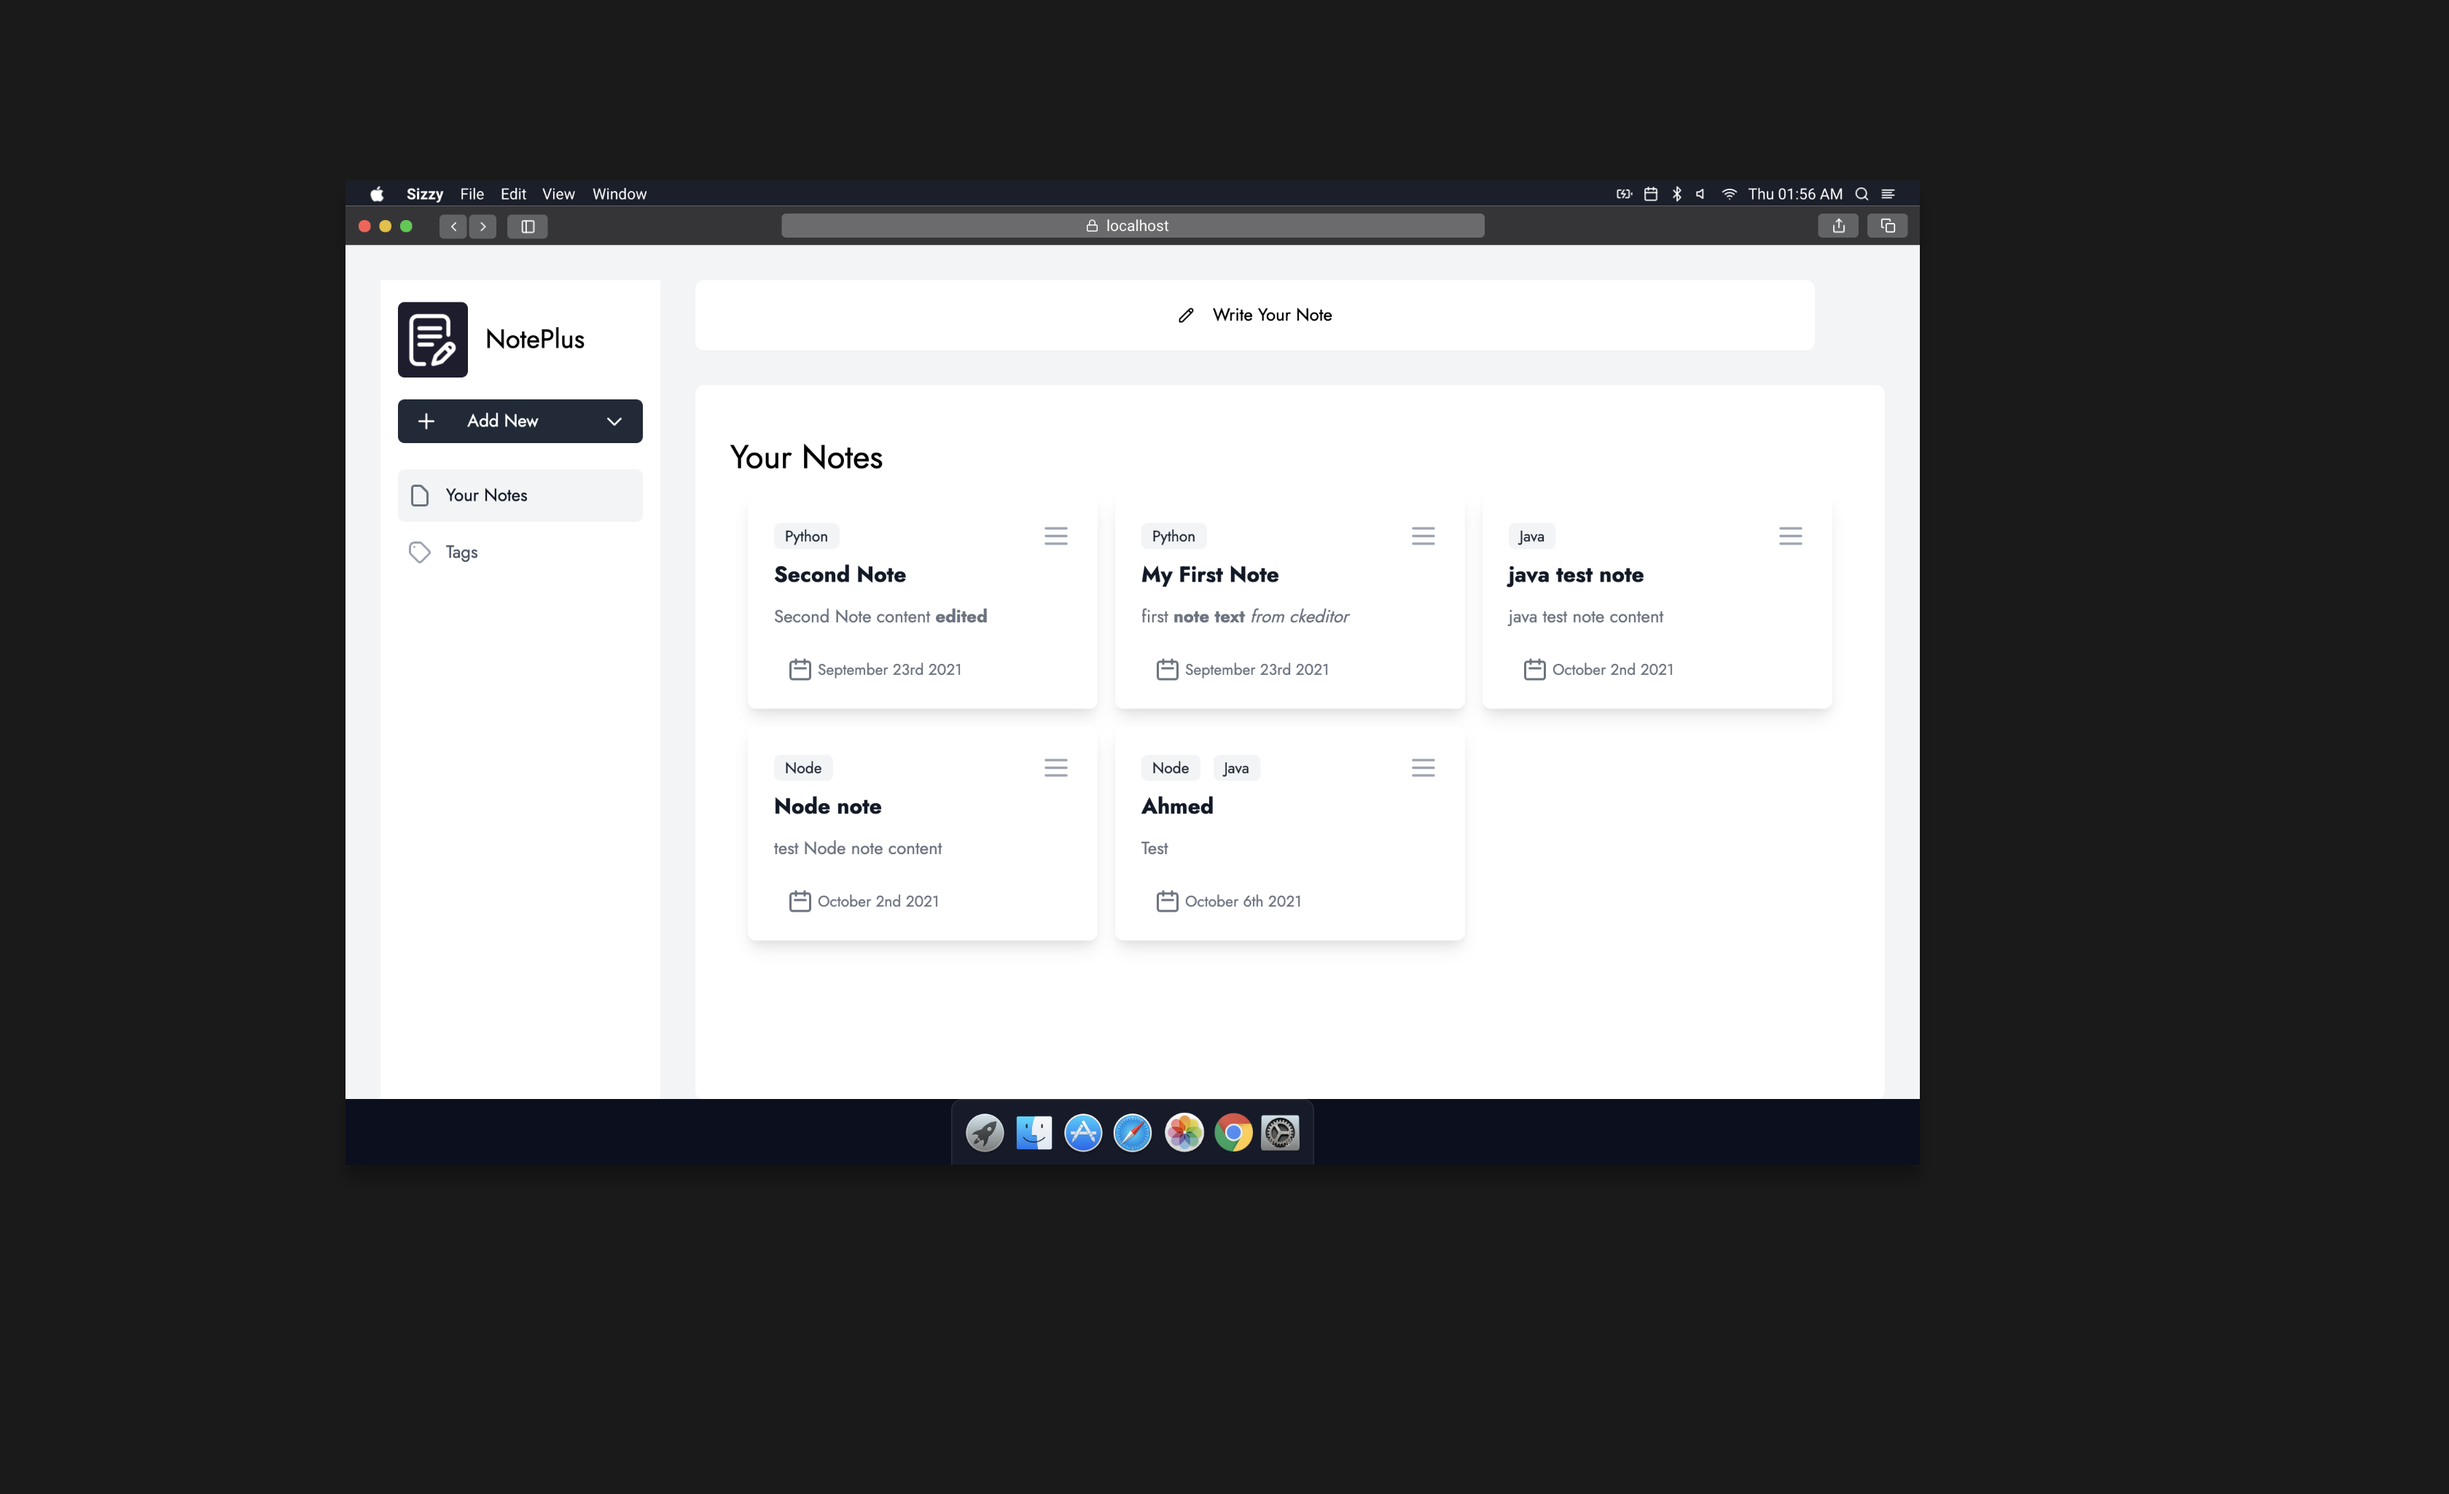
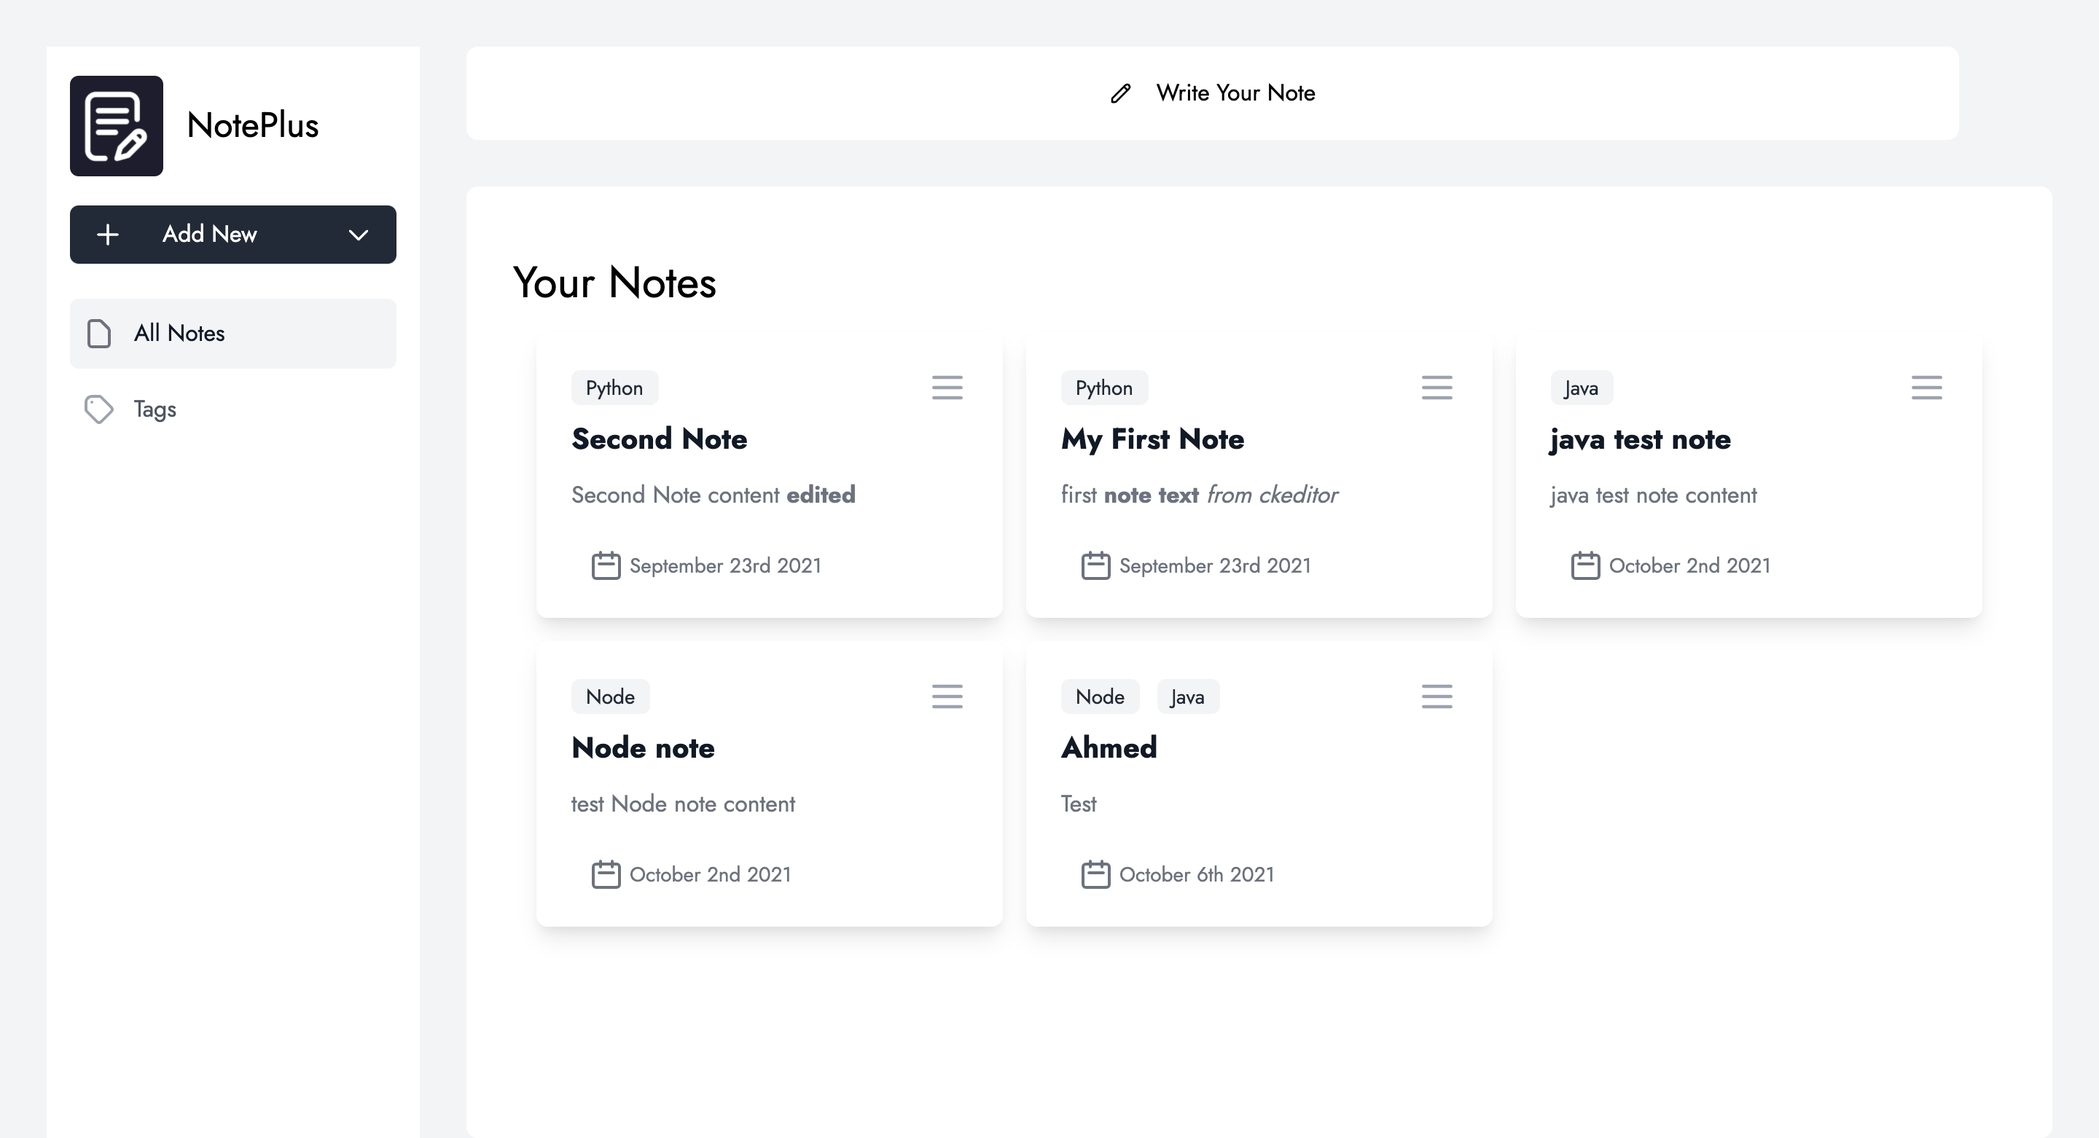
add all notes click event

diff --git a/src/components/Sidebar.tsx b/src/components/Sidebar.tsx
@@ -16,9 +16,11 @@ import {
 } from '@heroicons/react/outline'
 
 import Bar from './Bar'
+import { useDispatch } from 'react-redux'
+import { asyncGetAllNotes } from '../features/notes/notesSlice'
 
 const navigation = [
-  { name: 'Your Notes', icon: DocumentIcon, href: '#', current: true },
+  { name: 'All Notes', icon: DocumentIcon, href: '#', current: true , click: 'allNotes'},
   { name: 'Tags', icon: TagIcon, href: '#', count: 3, current: false, click: 'showBarUi' },
   // { name: 'Bin', icon: TrashIcon, href: '#', count: 4, current: false },
 ]
@@ -35,11 +37,14 @@ interface SidebarProps {
 function Sidebar({ newNote, showNewNote }: SidebarProps) {
   const [showBarUi, setShowBarUi] = useState(false)
   const [sidebarOpen, setSidebarOpen] = useState(false)
-
+  const dispatch = useDispatch()
   const handleClick = (clickHanndle: string) => {
     if (clickHanndle === 'showBarUi') {
       setShowBarUi(!showBarUi)
       setSidebarOpen(!sidebarOpen)
+    }
+    if (clickHanndle === 'allNotes') {
+      dispatch(asyncGetAllNotes())
     }
   }
 

diff --git a/README.md b/README.md
@@ -42,7 +42,8 @@ Start the server
   
 ## Screenshots
 
--   Homepage
+#   Homepage
+
 ![App Screenshot](./public/screenshots/homepage.png)
 
 
